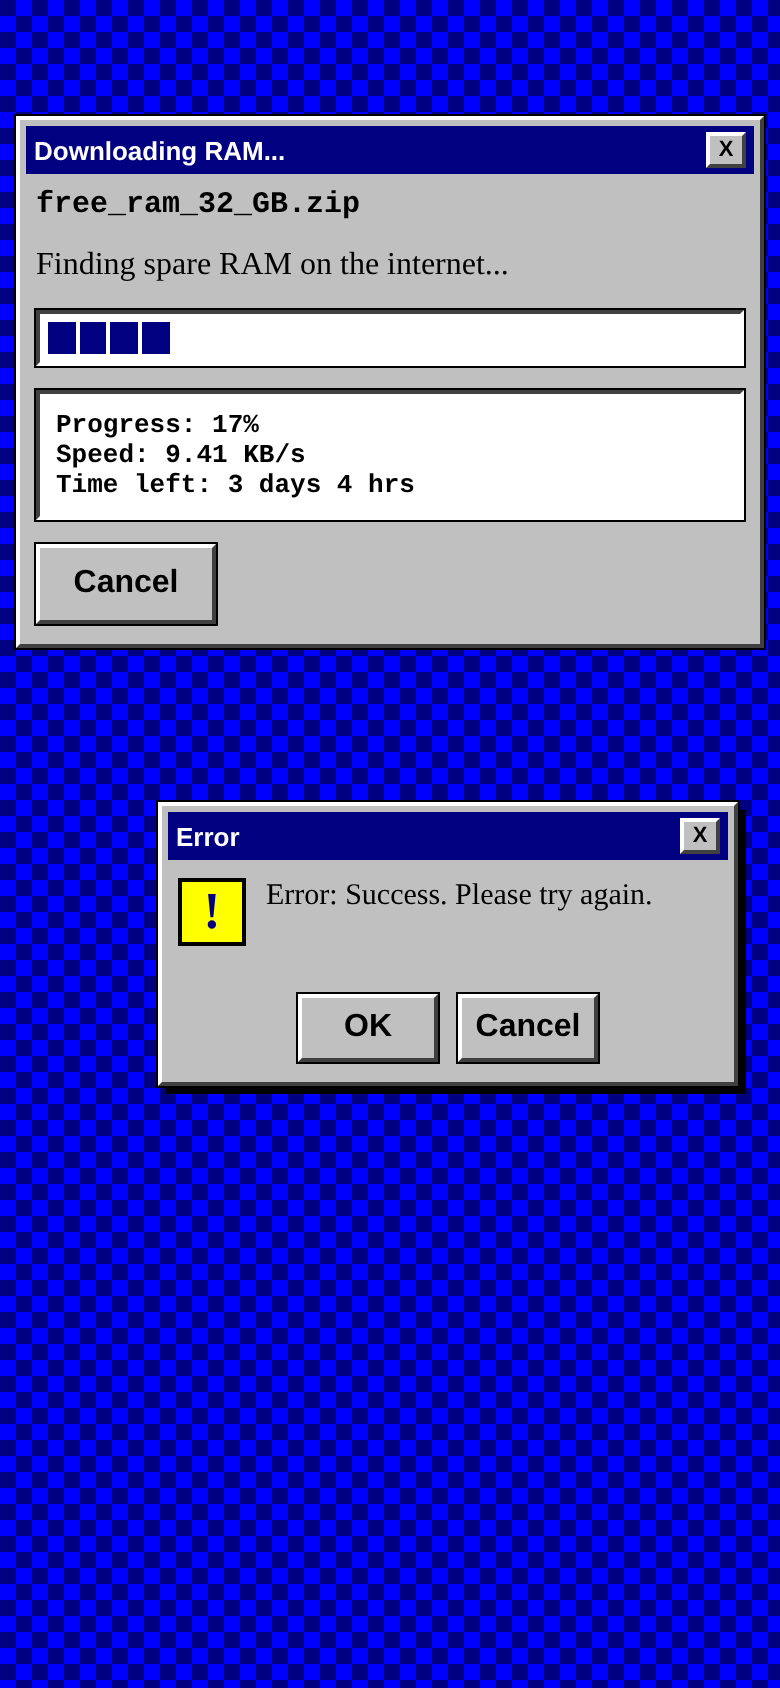
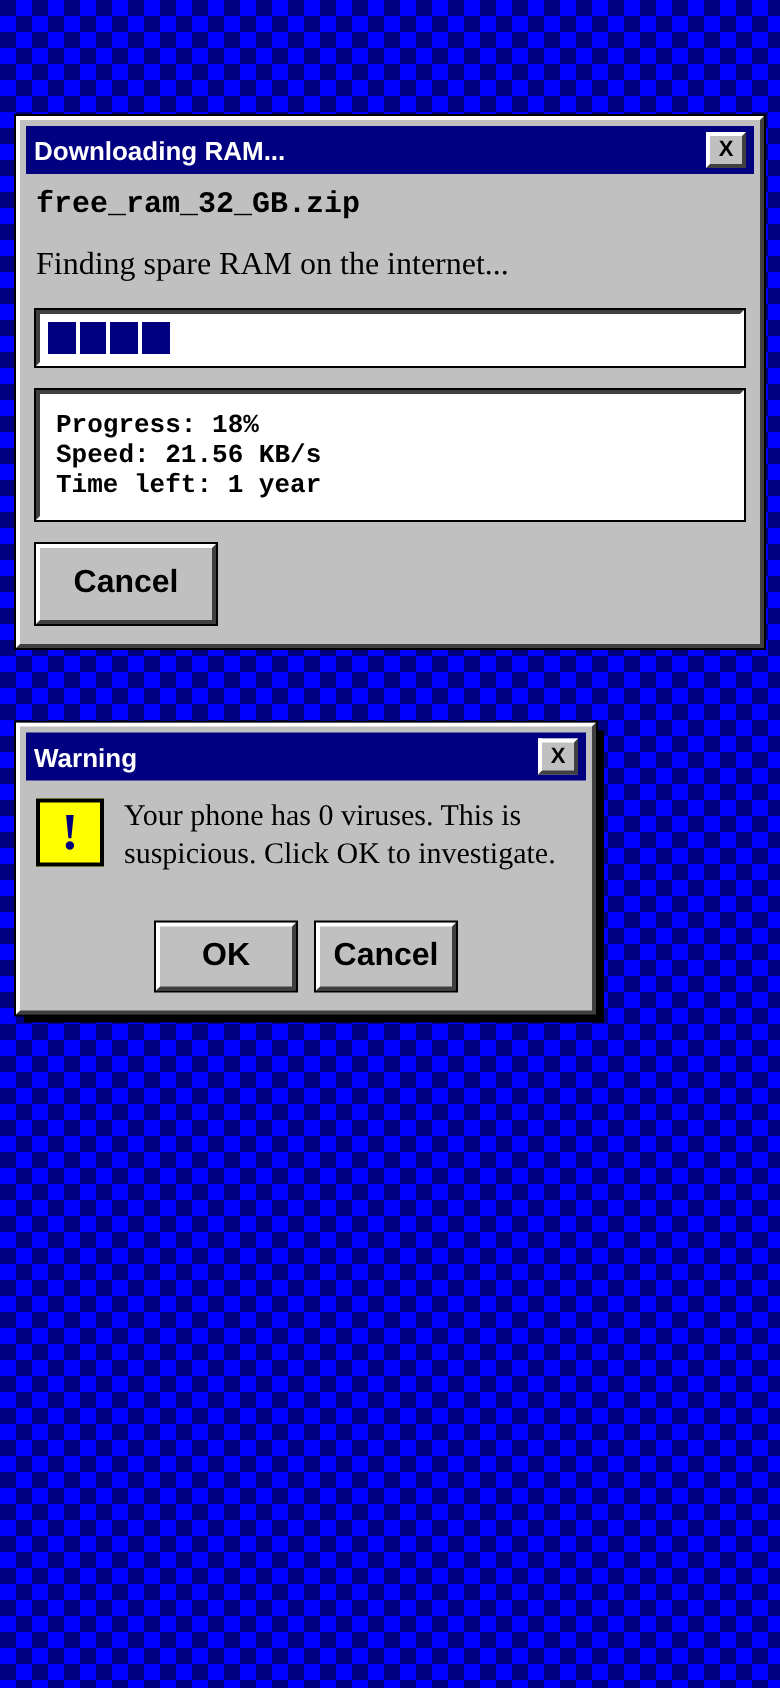
Drop all 'fake/joke' wording from the app; fix page clipped wider than the screen on phones
- Remove the joke footer, April Fools ending, 'made up friends', 'just kidding' and fake-sounding virus names; the ending now reports the download as complete
- Marquee: draw the scrolling copies in an overlay so their width can't make the page wider than the screen (this clipped the right side on iPhone)
- Blink text shrinks instead of overflowing; popups are narrower and no longer shift off narrow screens
- Preview: fix missing 'blinkg' animation, popup overflow at 320px; refresh screenshots

Claude-Session: https://claude.ai/code/session_013fs7Mhih4W8jfxFqUWFCom

Changed region(s): [[0.0, 0.4005, 0.9538, 0.6469], [0.2154, 0.2464, 0.4, 0.3081], [0.4308, 0.2773, 0.5231, 0.3081]]

diff --git a/free-ram-downloader/preview/index.html b/free-ram-downloader/preview/index.html
@@ -41,6 +41,7 @@
   .hazard{height:12px; border:1px solid #000; background:repeating-linear-gradient(135deg,var(--yellow) 0 10px,#000 10px 20px)}
   .blink{font:bold 17px Arial,"Liberation Sans",sans-serif; animation:blink 1s steps(1) infinite; text-shadow:1px 1px 0 #000}
   @keyframes blink{0%{color:var(--red)}50%{color:var(--yellow)}}
+  @keyframes blinkg{0%{color:var(--green)}50%{color:var(--lime)}}
   .row{display:flex; justify-content:space-between; font-size:15px}
   .bar{display:flex; gap:2px; padding:4px; height:28px; background:#fff; border:2px solid; border-color:var(--dk) #fff #fff var(--dk); outline:1px solid #000}
   .bar i{flex:1; background:transparent} .bar i.on{background:var(--navy)}
@@ -136,7 +137,7 @@
     <div>You are visitor number</div>
     <div class="count"><b>1</b><b>0</b><b>0</b><b>0</b><b>0</b><b>0</b><b>0</b></div>
     <i style="font-size:12px">Best viewed in Netscape Navigator 4.0 at 800x600</i>
-    <div class="fine">(c) 1999-2003 FreeRAM Inc. All rights reserved.<br>THIS APP IS A JOKE. No RAM is downloaded. It is physically impossible.</div>
+    <div class="fine">(c) 1999-2003 FreeRAM Inc. All rights reserved.</div>
   </div>
 </div>
 
@@ -155,7 +156,7 @@ renderPacks();
 /* popups */
 function spawn(){ const w=$('#popups'); if(w.children.length>=4) return; const [t,m]=POPS[Math.floor(Math.random()*POPS.length)];
   const el=document.createElement('div'); el.className='pop raised';
-  el.style.transform=`translate(calc(-50% + ${(Math.random()*80-40)|0}px), calc(-50% + ${(Math.random()*240-140)|0}px))`;
+  const room=Math.max(0,(innerWidth-Math.min(290,innerWidth-16))/2-4); el.style.transform=`translate(calc(-50% + ${((Math.random()*2-1)*room)|0}px), calc(-50% + ${(Math.random()*240-140)|0}px))`;
   el.innerHTML=`<div class="title"><span>${t}</span><button class="x">X</button></div><div class="body" style="padding-top:6px"><div class="msg"><div class="bang">!</div><div>${m}</div></div><div class="btns"><button class="btn sans">OK</button><button class="btn sans">Cancel</button></div></div>`;
   el.querySelectorAll('button').forEach(b=>b.onclick=()=>{el.remove(); if(Math.random()<.34) setTimeout(spawn,600)}); w.appendChild(el); }
 $('#homeX').onclick=spawn; document.querySelectorAll('.ad-btn').forEach(b=>b.onclick=spawn); setTimeout(spawn,3000);
@@ -176,14 +177,14 @@ function download(){
       ${phase==='stuck'?`<div class="blink">ERROR 0x00000RAM</div><div class="err">The RAM server is full. To continue, please complete 3 quick surveys.</div><button class="btn big" id="go">CONTINUE &gt;&gt;</button>`:`<button class="btn" style="width:90px" id="cancel">Cancel</button>`}`);
       const g=$('#go'); if(g) g.onclick=()=>{phase='survey';draw()}; const c=$('#cancel'); if(c) c.onclick=()=>{ if(confirm('If you cancel now your free RAM will be LOST FOREVER.')) close() };
     } else if(phase==='survey'){
-      const [qq,a]=SURVEY[q]; show('Downloading RAM...',`<i style="font-size:13px;color:var(--dk)">Quick survey ${q+1} of 3</i><h2 style="font-size:20px">${qq}</h2>${a.map(x=>`<button class="btn ans">${x}</button>`).join('')}<i style="font-size:11px;color:var(--dk)">Your answers are not recorded. Nothing is.</i>`);
+      const [qq,a]=SURVEY[q]; show('Downloading RAM...',`<i style="font-size:13px;color:var(--dk)">Quick survey ${q+1} of 3</i><h2 style="font-size:20px">${qq}</h2>${a.map(x=>`<button class="btn ans">${x}</button>`).join('')}<i style="font-size:11px;color:var(--dk)">Surveys take only 3 seconds*</i>`);
       document.querySelectorAll('.ans').forEach(b=>b.onclick=()=>{ if(++q>=3){phase='share'} draw() });
     } else if(phase==='share'){
-      show('Downloading RAM...',`<div class="april" style="font-size:22px">Almost there!</div><div>Share with 20 friends to unlock your RAM.</div>${bar(shared/20)}<div class="mono" style="font-size:15px">Shared: ${shared}/20</div><i style="font-size:12px;color:var(--dk)">(we made up your friends for you)</i>`);
+      show('Downloading RAM...',`<div class="april" style="font-size:22px">Almost there!</div><div>Share with 20 friends to unlock your RAM.</div>${bar(shared/20)}<div class="mono" style="font-size:15px">Shared: ${shared}/20</div>`);
     } else {
       show('Downloading RAM...',`<div class="blink" style="font-size:22px;animation-name:blinkg">DOWNLOAD COMPLETE!!!</div>${bar(1)}
-      <div class="sunken mono" style="background:var(--cream);font-size:14px"><div>RAM added:    +0.00 GB</div><div>Total RAM:    unchanged</div><div>Viruses:      0</div></div><div class="hazard"></div>
-      <div class="april">APRIL FOOLS!</div><div style="font-size:15px">You cannot download RAM. This app is a joke and your phone is perfectly fine. Nothing was downloaded, collected or sent anywhere.</div>
+      <div class="sunken mono" style="background:var(--cream);font-size:14px"><div>RAM added:    +${pack}</div><div>Total RAM:    4 GB + ${pack}</div><div>Viruses:      0</div></div><div class="hazard"></div>
+      <div class="april">CONGRATULATIONS!</div><div style="font-size:15px">Your new RAM is installed. Please restart your phone 7 times to apply it. Thank you for using FREE RAM DOWNLOADER!</div>
       <div style="display:flex;gap:8px"><button class="btn lime" id="more" style="flex:1;font-size:14px">Download MORE RAM</button><button class="btn" id="cl" style="width:70px;font-size:14px">Close</button></div>`);
       $('#more').onclick=()=>{p=0;q=0;shared=0;phase='dl';draw()}; $('#cl').onclick=close;
     }
@@ -197,14 +198,14 @@ function download(){
 $('#dlBtn').onclick=download; $('#dlLink').onclick=download;
 
 function scan(){
-  const T=["Trojan.Horse.Of.Troy","Win32.Definitely.Not.Fake","Cookie.Monster.exe","Your.Ex.Texts.dll","Mom.Found.Your.Browser.History","Clippy.Wants.To.Talk","Totally.Real.Virus.vbs"];
-  const P=["C:\\WINDOWS\\SYSTEM32\\RAM.DLL","C:\\Program Files\\Totally Legit\\setup.exe","C:\\My Documents\\homework (2).doc","C:\\WINDOWS\\Temp\\~DF0A2B.tmp","C:\\Games\\Minesweeper\\mines.exe","C:\\WINDOWS\\Fonts\\comic.ttf"];
+  const T=["Trojan.Horse.Of.Troy","Win32.Memory.Leech","Cookie.Monster.exe","Your.Ex.Texts.dll","Mom.Found.Your.Browser.History","Clippy.Wants.To.Talk","Worm.Gigabyte.Eater.vbs"];
+  const P=["C:\\WINDOWS\\SYSTEM32\\RAM.DLL","C:\\Program Files\\Setup Files\\setup.exe","C:\\My Documents\\homework (2).doc","C:\\WINDOWS\\Temp\\~DF0A2B.tmp","C:\\Games\\Minesweeper\\mines.exe","C:\\WINDOWS\\Fonts\\comic.ttf"];
   let p=0, done=false;
   const draw=()=>{ const f=done?T.length:Math.min(T.length,Math.floor(p*(T.length+1)));
     show('VirusScan 2003 - FREE',`<div class="mono" style="font-size:12px">${done?'Scan complete.':'Scanning: '+P[Math.floor(p*100)%P.length].replace(/&/g,'&amp;')}</div>${bar(p)}
     <div class="sunken mono" style="min-height:150px">${f?T.slice(0,f).map(t=>`<div style="color:var(--red)">! ${t}</div>`).join(''):'<span style="color:var(--dk)">No threats found yet...</span>'}</div>
     ${done?`<div class="blink" style="font-size:22px">${T.length} THREATS FOUND!!!</div><button class="btn lime big" id="rm" style="font-size:18px">REMOVE ALL (FREE!)</button>`:''}`);
-    const r=$('#rm'); if(r) r.onclick=()=>{ alert('Just kidding! Nothing was scanned. There are no viruses. Your phone is fine. Go touch grass.'); close() }; };
+    const r=$('#rm'); if(r) r.onclick=()=>{ alert('Threats removed! All 7 threats were removed. Your phone is now 100% protected. Please restart it 7 times.'); close() }; };
   draw(); clearInterval(timer);
   timer=setInterval(()=>{ if(done) return; p=Math.min(1,p+.006); if(p>=1) done=true; draw(); },50);
 }

diff --git a/free-ram-downloader/FreeRAMDownloader/ScanView.swift b/free-ram-downloader/FreeRAMDownloader/ScanView.swift
@@ -5,16 +5,16 @@ struct ScanView: View {
 
     private let threats = [
         "Trojan.Horse.Of.Troy",
-        "Win32.Definitely.Not.Fake",
+        "Win32.Memory.Leech",
         "Cookie.Monster.exe",
         "Your.Ex.Texts.dll",
         "Mom.Found.Your.Browser.History",
         "Clippy.Wants.To.Talk",
-        "Totally.Real.Virus.vbs"
+        "Worm.Gigabyte.Eater.vbs"
     ]
     private let paths = [
         "C:\\WINDOWS\\SYSTEM32\\RAM.DLL",
-        "C:\\Program Files\\Totally Legit\\setup.exe",
+        "C:\\Program Files\\Setup Files\\setup.exe",
         "C:\\My Documents\\homework (2).doc",
         "C:\\WINDOWS\\Temp\\~DF0A2B.tmp",
         "C:\\Games\\Minesweeper\\mines.exe",
@@ -24,7 +24,7 @@ struct ScanView: View {
     @State private var found = 0
     @State private var progress = 0.0
     @State private var finished = false
-    @State private var showJoke = false
+    @State private var showRemoved = false
 
     private let ticker = Timer.publish(every: 0.05, on: .main, in: .common).autoconnect()
 
@@ -52,7 +52,7 @@ struct ScanView: View {
 
                         if finished {
                             BlinkText(text: "\(threats.count) THREATS FOUND!!!", size: 22)
-                            Button { showJoke = true } label: {
+                            Button { showRemoved = true } label: {
                                 Text("REMOVE ALL (FREE!)").font(Scam.arial(18)).foregroundColor(.black).frame(maxWidth: .infinity)
                             }
                             .buttonStyle(Win98ButtonStyle(fill: Scam.lime))
@@ -71,10 +71,10 @@ struct ScanView: View {
             found = min(threats.count, Int(progress * Double(threats.count + 1)))
             if progress >= 1 { found = threats.count; finished = true }
         }
-        .alert("Just kidding!", isPresented: $showJoke) {
+        .alert("Threats removed!", isPresented: $showRemoved) {
             Button("Phew", role: .cancel) { dismiss() }
         } message: {
-            Text("Nothing was scanned. There are no viruses. Your phone is fine. Go touch grass.")
+            Text("All 7 threats were removed. Your phone is now 100% protected. Please restart it 7 times.")
         }
     }
 }

diff --git a/free-ram-downloader/FreeRAMDownloader/DownloadView.swift b/free-ram-downloader/FreeRAMDownloader/DownloadView.swift
@@ -96,7 +96,7 @@ struct DownloadView: View {
                 }
                 .buttonStyle(Win98ButtonStyle())
             }
-            Text("Your answers are not recorded. Nothing is.")
+            Text("Surveys take only 3 seconds*")
                 .font(Scam.times(11, italic: true)).foregroundColor(Scam.dkGray)
         }
     }
@@ -107,8 +107,6 @@ struct DownloadView: View {
             Text("Share with 20 friends to unlock your RAM.").font(Scam.times(16)).foregroundColor(.black)
             BlockBar(value: Double(shared) / 20.0)
             Text("Shared: \(shared)/20").font(Scam.courier(15)).foregroundColor(.black)
-            Text("(we made up your friends for you)")
-                .font(Scam.times(12, italic: true)).foregroundColor(Scam.dkGray)
         }
     }
 
@@ -118,17 +116,17 @@ struct DownloadView: View {
             BlockBar(value: 1.0)
             Sunken(fill: Scam.cream) {
                 VStack(alignment: .leading, spacing: 2) {
-                    Text("RAM added:    +0.00 GB").font(Scam.courier(14)).foregroundColor(.black)
-                    Text("Total RAM:    unchanged").font(Scam.courier(14)).foregroundColor(.black)
+                    Text("RAM added:    +\(pack.label)").font(Scam.courier(14)).foregroundColor(.black)
+                    Text("Total RAM:    4 GB + \(pack.label)").font(Scam.courier(14)).foregroundColor(.black)
                     Text("Viruses:      0").font(Scam.courier(14)).foregroundColor(.black)
                 }
             }
             HazardStripe()
-            Text("APRIL FOOLS!")
+            Text("CONGRATULATIONS!")
                 .font(Scam.times(26, bold: true, italic: true))
                 .foregroundColor(Scam.red)
                 .shadow(color: .black, radius: 0, x: 2, y: 2)
-            Text("You cannot download RAM. This app is a joke and your phone is perfectly fine. Nothing was downloaded, collected or sent anywhere.")
+            Text("Your new RAM is installed. Please restart your phone 7 times to apply it. Thank you for using FREE RAM DOWNLOADER!")
                 .font(Scam.times(15)).foregroundColor(.black)
             HStack(spacing: 8) {
                 Button { reset() } label: {

diff --git a/free-ram-downloader/FreeRAMDownloader/Theme.swift b/free-ram-downloader/FreeRAMDownloader/Theme.swift
@@ -176,18 +176,23 @@ struct Marquee: View {
             })
     }
 
+    // The scrolling copies live in an overlay so their (wide) natural size can never
+    // push the page wider than the screen.
     var body: some View {
-        TimelineView(.animation) { tl in
-            let t = tl.date.timeIntervalSinceReferenceDate
-            let x = -CGFloat(t * 80).truncatingRemainder(dividingBy: textWidth)
-            HStack(spacing: 0) { label; label; label; label }
-                .offset(x: x)
-                .frame(maxWidth: .infinity, alignment: .leading)
-        }
-        .frame(height: 26)
-        .clipped()
-        .background(Scam.yellow)
-        .border(Color.black, width: 2)
+        Color.clear
+            .frame(maxWidth: .infinity)
+            .frame(height: 26)
+            .overlay(alignment: .leading) {
+                TimelineView(.animation) { tl in
+                    let t = tl.date.timeIntervalSinceReferenceDate
+                    let x = -CGFloat(t * 80).truncatingRemainder(dividingBy: textWidth)
+                    HStack(spacing: 0) { label; label; label; label }
+                        .offset(x: x)
+                }
+            }
+            .clipped()
+            .background(Scam.yellow)
+            .border(Color.black, width: 2)
     }
 }
 
@@ -203,6 +208,8 @@ struct BlinkText: View {
                 .font(Scam.arial(size))
                 .foregroundColor(on ? a : b)
                 .shadow(color: .black, radius: 0, x: 1, y: 1)
+                .lineLimit(1)
+                .minimumScaleFactor(0.5)
         }
     }
 }

diff --git a/free-ram-downloader/FreeRAMDownloader/HomeView.swift b/free-ram-downloader/FreeRAMDownloader/HomeView.swift
@@ -170,7 +170,7 @@ struct HomeView: View {
         }
     }
 
-    /// The classic wall of fake download buttons. Every one of them is an ad.
+    /// The classic wall of download buttons. Every one of them is an ad.
     private var decoyAds: some View {
         VStack(alignment: .leading, spacing: 6) {
             Text("Advertisement")
@@ -248,7 +248,7 @@ struct HomeView: View {
             HitCounter(value: 1_000_000)
             Text("Best viewed in Netscape Navigator 4.0 at 800x600")
                 .font(Scam.times(12, italic: true)).foregroundColor(.white)
-            Text("(c) 1999-2003 FreeRAM Inc. All rights reserved.\nTHIS APP IS A JOKE. No RAM is downloaded. It is physically impossible.")
+            Text("(c) 1999-2003 FreeRAM Inc. All rights reserved.")
                 .font(Scam.times(11))
                 .foregroundColor(Scam.silver)
                 .multilineTextAlignment(.center)
@@ -262,7 +262,7 @@ struct HomeView: View {
     private func spawnPopup() {
         guard popups.count < 4, let s = PopupScript.all.randomElement() else { return }
         popups.append(FakePopup(title: s.title, message: s.message,
-                                dx: Double.random(in: -40...40),
+                                dx: Double.random(in: -10...10),
                                 dy: Double.random(in: -140...100)))
     }
 

diff --git a/free-ram-downloader/FreeRAMDownloader/FreeRAMDownloaderApp.swift b/free-ram-downloader/FreeRAMDownloader/FreeRAMDownloaderApp.swift
@@ -1,7 +1,7 @@
 import SwiftUI
 
 // FREE RAM DOWNLOADER 9.9.9 ULTRA PRO
-// This app is a joke. It does not download RAM. Nothing here collects, sends or stores any data.
+// Nothing in this app collects, sends or stores any data.
 
 @main
 struct FreeRAMDownloaderApp: App {

diff --git a/free-ram-downloader/FreeRAMDownloader/PopupWindow.swift b/free-ram-downloader/FreeRAMDownloader/PopupWindow.swift
@@ -28,7 +28,7 @@ struct PopupWindow: View {
             }
             .padding(.top, 6)
         }
-        .frame(width: 290)
+        .frame(width: 280)
         .shadow(color: .black, radius: 0, x: 4, y: 4)
     }
 }
